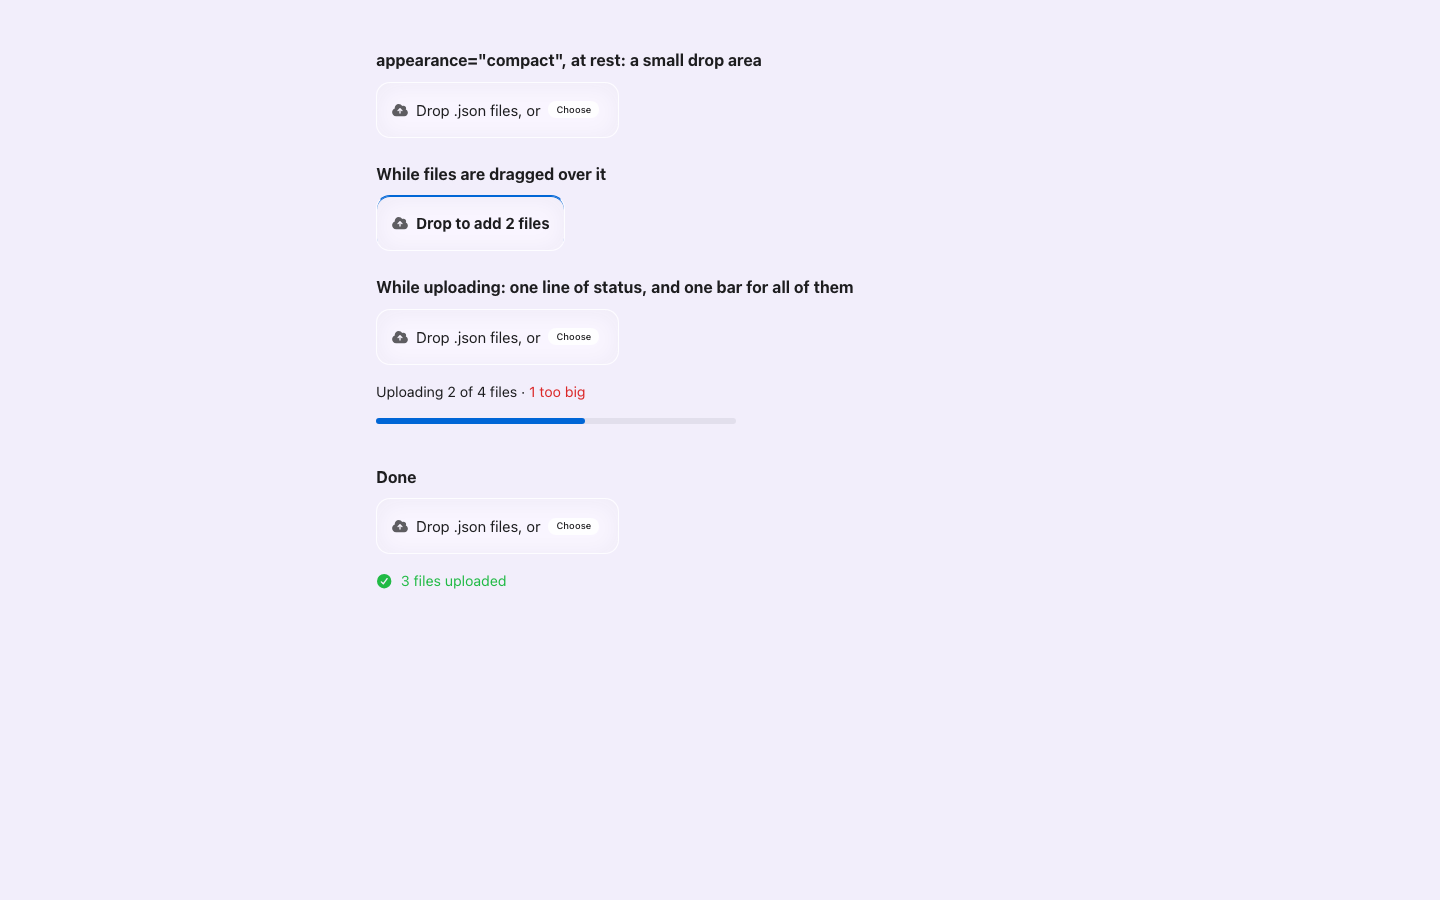
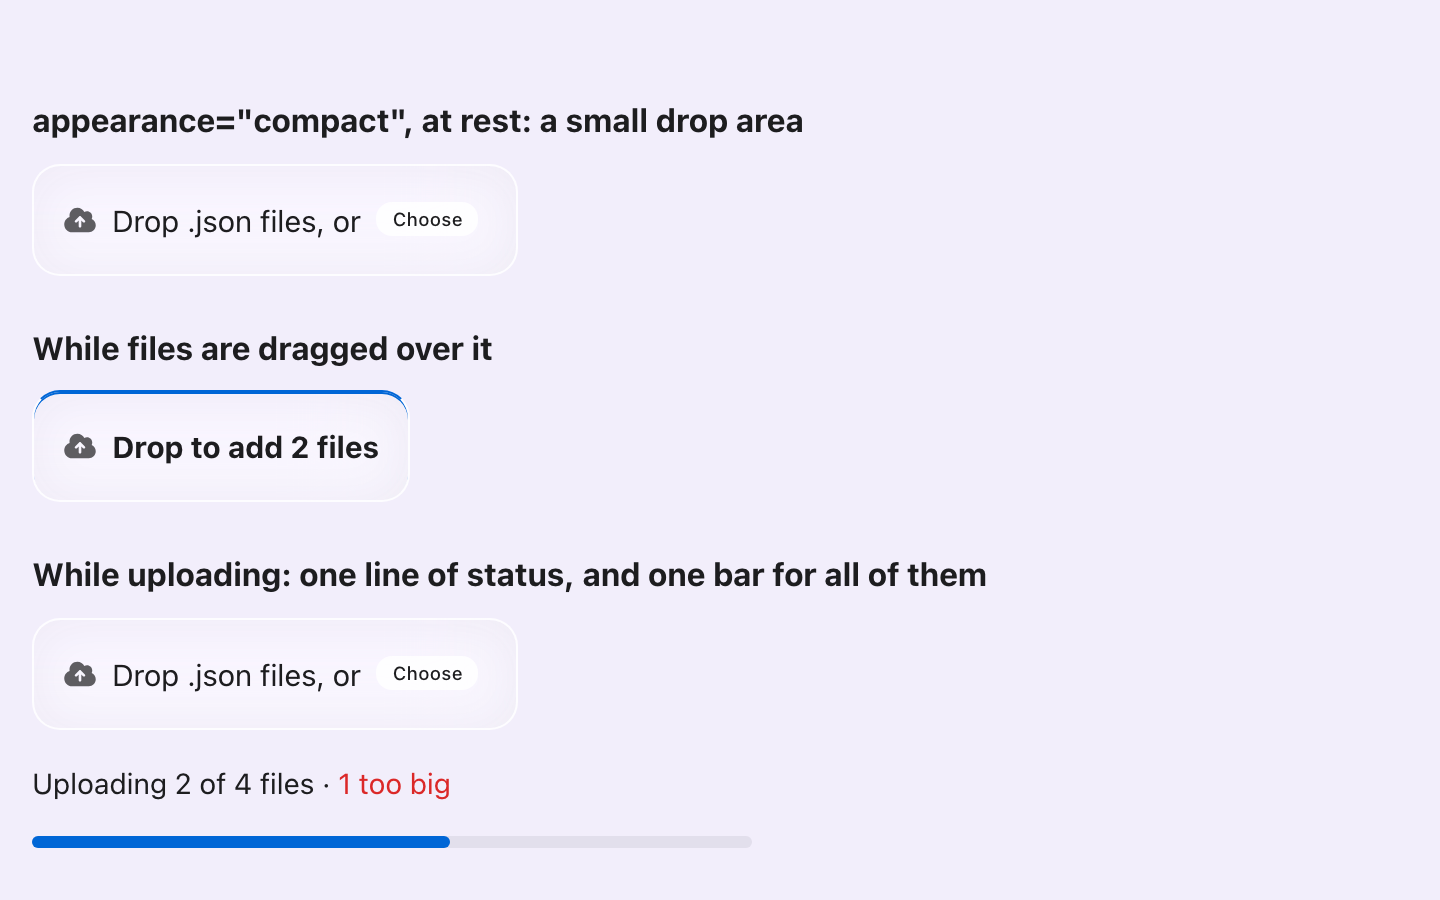
auto: epic from-jarvis
Turn-end: epic-engine
Session: 4d9aa1d9-7f68-4a51-8815-074ab31e034e

diff --git a/epics/from-jarvis/pictures/p9-uploader-mockup.html b/epics/from-jarvis/pictures/p9-uploader-mockup.html
@@ -14,10 +14,13 @@
       .spell-comment-mark { display: none !important; }
       main { max-width: 720px; margin: 0 auto; padding: 24px 16px; }
       h4 { margin: 24px 0 8px; }
+      /* the drop area reads its --ui-uploader-* tokens, so a page restyles it without touching its parts */
       .drop {
-        border: 2px dashed var(--ui-border-color, #c8c8c8);
-        border-radius: 8px;
-        padding: 24px 16px;
+        border: var(--ui-uploader-border-width, 2px) var(--ui-uploader-border-style, dashed) var(--ui-uploader-border-color, var(--ui-border-color, #c8c8c8));
+        border-radius: var(--ui-uploader-radius, 8px);
+        background: var(--ui-uploader-background, transparent);
+        color: var(--ui-uploader-text-color, inherit);
+        padding: var(--ui-uploader-padding, 24px 16px);
         text-align: center;
         display: grid;
         gap: 8px;
@@ -27,6 +30,28 @@
         border-color: var(--ui-primary-color, #2185d0);
         background: color-mix(in srgb, var(--ui-primary-color, #2185d0) 10%, transparent);
       }
+      .drop .glyph.big { background: var(--ui-uploader-icon-color, currentColor); }
+      .drop.pretty {
+        --ui-uploader-border-style: solid;
+        --ui-uploader-border-width: 1px;
+        --ui-uploader-border-color: color-mix(in srgb, #8e44ad 45%, transparent);
+        --ui-uploader-background: linear-gradient(160deg, color-mix(in srgb, #8e44ad 12%, transparent), color-mix(in srgb, #2185d0 10%, transparent));
+        --ui-uploader-radius: 16px;
+        --ui-uploader-padding: 32px 24px;
+        --ui-uploader-icon-color: #8e44ad;
+      }
+      .drop.pretty .glyph.big { opacity: 0.9; width: 48px; height: 48px; }
+      .pretty-title { font-size: 1.15em; font-weight: 600; }
+      /* the Slots example:  each slot outlined, with its name */
+      .slot { position: relative; outline: 1.5px dashed #e67e22; outline-offset: 4px; border-radius: 4px; }
+      .slot::after {
+        content: attr(data-slot);
+        position: absolute; top: -22px; left: 100%; margin-left: 8px; white-space: nowrap;
+        font: 600 11px/1 ui-monospace, monospace; color: #e67e22;
+      }
+      .drop.slots { gap: 20px; padding-top: 32px; }
+      .note { margin: 8px 0 0; font-size: 0.9em; opacity: 0.8; max-width: 560px; }
+      .note b { color: #e67e22; }
       .limits { opacity: 0.65; font-size: 0.9em; }
       .rows { list-style: none; margin: 12px 0 0; padding: 0; display: grid; gap: 8px; }
       .row {
@@ -71,7 +96,7 @@
       <div class="drop">
         <span class="glyph big" style="--glyph: url(/ui/dist/icon-packs/fa7-free/solid/cloud-arrow-up.svg)"></span>
         <div>Drop .json files here, or</div>
-        <ui-input type="file" accept=".json" multiple aria-label="Choose files"></ui-input>
+        <ui-button>Choose files…</ui-button>
         <div class="limits">Up to 5 files, 2 MB each</div>
       </div>
 
@@ -120,6 +145,25 @@
           <ui-icon class="x" name="xmark" data-tooltip="Remove"></ui-icon>
         </li>
       </ul>
+      <div id="slots">
+      <h4>Its slots:  a page's own icon, message and button</h4>
+      <div class="drop slots">
+        <span class="glyph big slot" data-slot='slot="icon"' style="--glyph: url(/ui/dist/icon-packs/fa7-free/solid/cloud-arrow-up.svg)"></span>
+        <div class="slot" data-slot='slot="message"'>Drop .json files here, or</div>
+        <ui-button class="slot" data-slot='slot="button"'>Choose files…</ui-button>
+        <div class="limits">Up to 5 files, 2 MB each</div>
+      </div>
+      <p class="note">The words it shows while busy are properties:
+        <code>uploading-message="Uploading {done} of {count}"</code>, <code>drop-message="Drop to add {count} files"</code>, <code>done-message</code> ...</p>
+
+      <h4>Restyled by a page:  its own icon and message, and a look from <code>--ui-uploader-*</code> tokens</h4>
+      <div class="drop pretty">
+        <span class="glyph big" style="--glyph: url(/ui/dist/icon-packs/fa7-free/solid/microchip.svg)"></span>
+        <div><div class="pretty-title">Bring in your netlists</div><div class="limits">Drag the .json files from your chip tools here</div></div>
+        <ui-button color="violet">Pick netlists…</ui-button>
+      </div>
+
+      </div>
       </div>
 
       <div class="ap ap-button">
@@ -133,7 +177,7 @@
         <ui-button color="blue"><span class="glyph on-button" style="--glyph: url(/ui/dist/icon-packs/fa7-free/solid/cloud-arrow-up.svg)"></span>Drop to add 2 files</ui-button>
       </div>
 
-      <h4>While uploading:  the files in a popup from the button (choice A)</h4>
+      <h4>While uploading:  the files in a popup from the button</h4>
       <div class="stage tall">
         <ui-button id="busy" color="blue" appearance="basic"><span class="glyph on-button" style="--glyph: url(/ui/dist/icon-packs/fa7-free/solid/cloud-arrow-up.svg)"></span>Uploading 2 of 4</ui-button>
         <ui-popup for="busy" open-on="manual" visible position="bottom left" flowing>
@@ -147,10 +191,6 @@
         </ui-popup>
       </div>
 
-      <h4>Or a count on the button, the rows on a click (choice C)</h4>
-      <div class="stage">
-        <ui-button badge="3"><span class="glyph on-button" style="--glyph: url(/ui/dist/icon-packs/fa7-free/solid/cloud-arrow-up.svg)"></span>Upload .json files</ui-button>
-      </div>
       </div>
 
       <div class="ap ap-input">
@@ -158,6 +198,9 @@
       <ui-input class="field" placeholder="No files chosen" readonly fluid>
         <ui-button slot="action">Browse…</ui-button>
       </ui-input>
+
+      <p class="note"><b>Not right yet:</b>  ui-input's own join draws the Browse button with no border, and rounder corners on the field (10px) than on the button (8px), so the field's top and bottom lines stop short at the button.
+        Its own docs page shows the same.  The heights match (40.6px both).</p>
 
       <h4>While files are dragged over it</h4>
       <ui-input class="field" placeholder="Drop to add 2 files" readonly fluid state="info">
